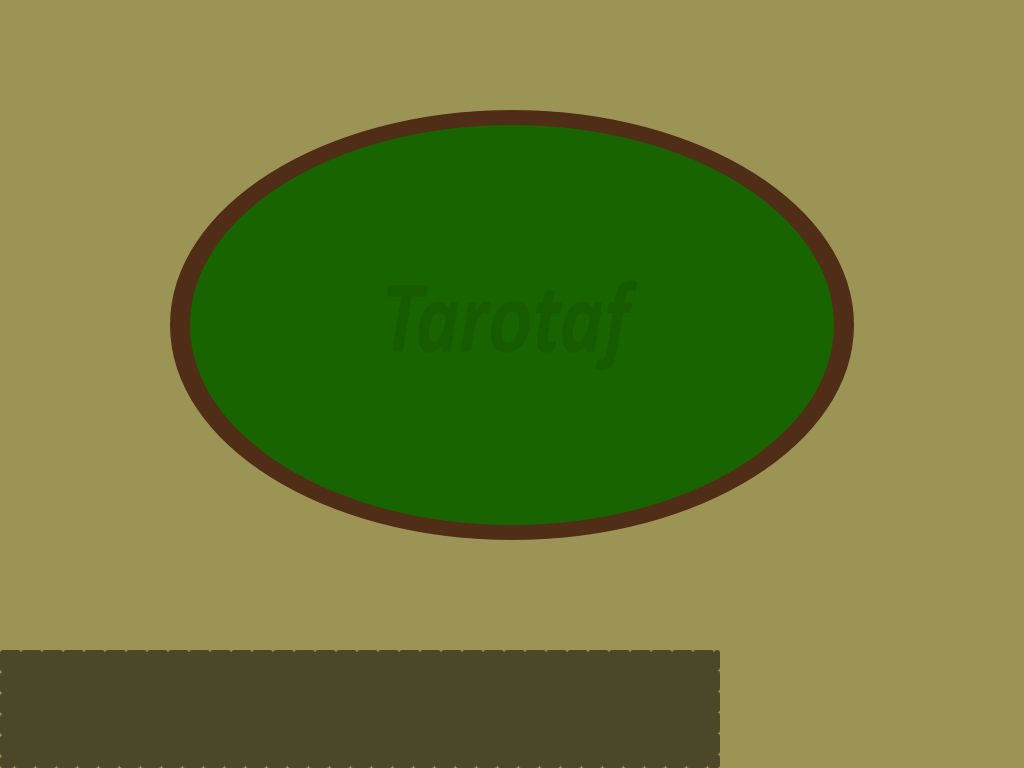
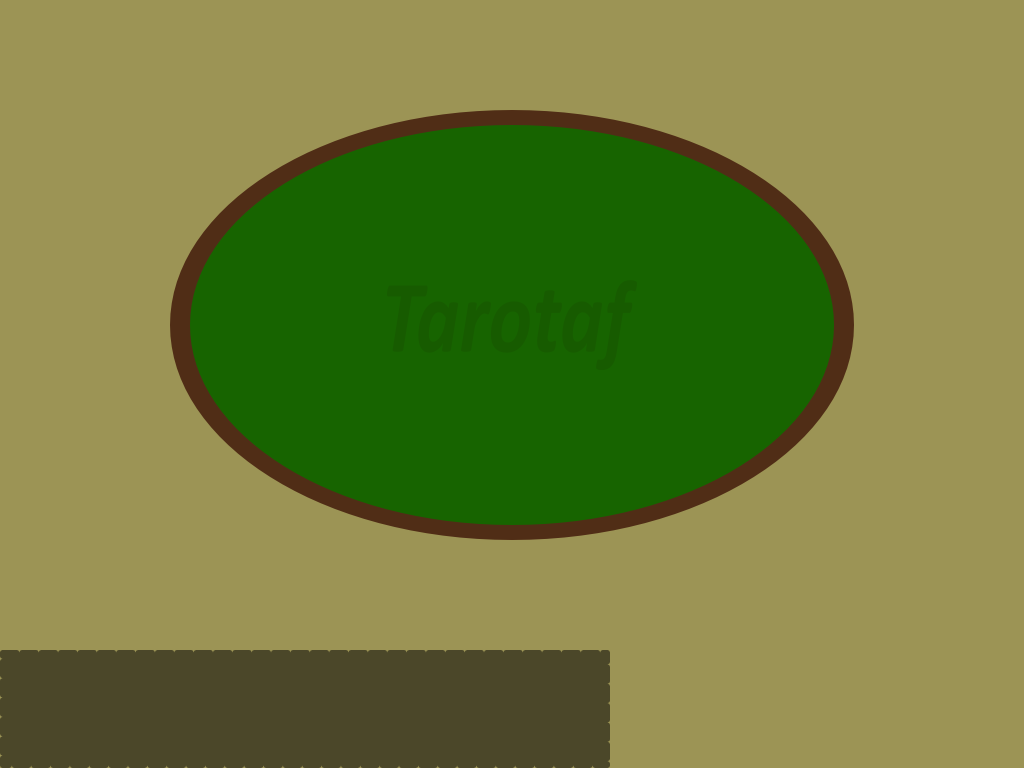
Switcher available

Changed region(s): [[0.5938, 0.8438, 0.7188, 1.0]]

diff --git a/trunk/client/switcher.py b/trunk/client/switcher.py
@@ -1,0 +1,98 @@
+#!/usr/bin/python
+# coding=UTF-8
+
+#Includes
+from PySFML import sf
+import math
+
+
+class Switcher:
+	
+	def __init__(self,window,event,thumbs):
+		self.window=window
+		self.event=event
+		self.thumbs2=thumbs		
+		self.init_x=self.window.GetWidth()*0.65
+		self.init_y=self.window.GetHeight()*0.86
+		self.width=300
+		self.height=100		
+		self.nb_rooms=0
+		self.thumbs=[]
+		self.visible=False
+		self.over_thumb=False
+		self.thumb_in=0
+		self.scale=0
+		self.generate()
+	
+	#generate : build the switcher
+	def generate(self):		
+		del self.thumbs[:] #Empty the list of switcher's thumbnails
+		self.background = sf.Shape.Rectangle(self.init_x,self.init_y,self.init_x+self.width,self.init_y+self.height,sf.Color(75,71,41,100),1,sf.Color(255,255,255)) #Print the background
+		#Add the thumb for each room
+		for i in range(self.nb_rooms):				
+			self.thumbs.append(sf.Sprite(self.thumbs2[i]))
+			#4 thumbs max per line
+			if self.nb_rooms<=4:
+				#Find the good scale factor
+				if self.thumbs[i].GetSize()[0]!=0:
+					self.scale=min((self.width-5*(self.nb_rooms+1))/(self.nb_rooms*self.thumbs[i].GetSize()[0]),(self.height-10)/self.thumbs[i].GetSize()[1])
+					self.thumbs[i].SetScale(self.scale,self.scale)
+				self.thumbs[i].SetY(self.init_y+(self.height-self.thumbs[i].GetSize()[1])/2)
+				self.thumbs[i].SetX(self.init_x+self.thumbs[i].GetSize()[0]*i+(self.width-self.nb_rooms*self.thumbs[i].GetSize()[0])/(self.nb_rooms+1)*(i+1))
+			else:
+				#Find the good scale factor
+				if self.thumbs[i].GetSize()[0]!=0:
+					self.scale=min((self.width-5*(4+1))/(4*self.thumbs[i].GetSize()[0]),(self.height-15)/(2*self.thumbs[i].GetSize()[1]))
+					self.thumbs[i].SetScale(self.scale,self.scale)
+				#Draw the thumbs on 2 lignes if more than 4 thumbs
+				if i>3:
+					self.thumbs[i].SetY(self.init_y+2*(self.height-2*self.thumbs[i].GetSize()[1])/3+self.thumbs[i].GetSize()[1])
+					self.thumbs[i].SetX(self.init_x+self.thumbs[i].GetSize()[0]*(i-4)+(self.width-4*self.thumbs[i].GetSize()[0])/5*((i-4)+1))	
+				else:
+					self.thumbs[i].SetY(self.init_y+(self.height-2*self.thumbs[i].GetSize()[1])/3)
+					self.thumbs[i].SetX(self.init_x+self.thumbs[i].GetSize()[0]*i+(self.width-4*self.thumbs[i].GetSize()[0])/5*(i+1))
+				
+	#display : draw the switcher on the window
+	def display(self):					
+		self.window.Draw(self.background)
+		for thumb in self.thumbs:
+			self.window.Draw(thumb)
+		self.visible=True
+		
+	def on_move(self):
+		if(self.event.MouseMove.X>self.init_x and self.event.MouseMove.X<self.init_x+self.width and self.event.MouseMove.Y>self.init_y and self.event.MouseMove.Y<self.init_y+self.height and self.visible):
+			i=0
+			j=-1
+			for thumb in self.thumbs:
+				if (self.event.MouseMove.X>thumb.GetPosition()[0] and self.event.MouseMove.X<thumb.GetPosition()[0]+thumb.GetSize()[0] and self.event.MouseMove.Y>thumb.GetPosition()[1] and self.event.MouseMove.Y<thumb.GetPosition()[1]+thumb.GetSize()[1]):
+					position = thumb.GetPosition()
+					width=thumb.GetSize()[0]
+					height=thumb.GetSize()[1]				
+					thumb.SetScale(self.scale*1.2,self.scale*1.2)
+					thumb.SetX(position[0]-(thumb.GetSize()[0]-width)/2)
+					thumb.SetY(position[1]-(thumb.GetSize()[1]-height)/2)
+					j=i
+					if j!=self.thumb_in:
+						position = self.thumbs[self.thumb_in].GetPosition()
+						width=self.thumbs[self.thumb_in].GetSize()[0]
+						height=self.thumbs[self.thumb_in].GetSize()[1]				
+						self.thumbs[self.thumb_in].SetScale(self.scale,self.scale)
+						self.thumbs[self.thumb_in].SetX(position[0]-(self.thumbs[self.thumb_in].GetSize()[0]-width)/2)
+						self.thumbs[self.thumb_in].SetY(position[1]-(self.thumbs[self.thumb_in].GetSize()[1]-height)/2)
+					self.over_thumb=True
+					self.thumb_in=i
+				i+=1	
+			if j==-1:
+				self.over_thumb=False			
+		else:
+			self.over_thumb=False
+		if not self.over_thumb and self.visible:
+			position = self.thumbs[self.thumb_in].GetPosition()
+			width=self.thumbs[self.thumb_in].GetSize()[0]
+			height=self.thumbs[self.thumb_in].GetSize()[1]				
+			self.thumbs[self.thumb_in].SetScale(self.scale,self.scale)
+			self.thumbs[self.thumb_in].SetX(position[0]-(self.thumbs[self.thumb_in].GetSize()[0]-width)/2)
+			self.thumbs[self.thumb_in].SetY(position[1]-(self.thumbs[self.thumb_in].GetSize()[1]-height)/2)
+			
+
+

diff --git a/trunk/client/table.py b/trunk/client/table.py
@@ -21,7 +21,6 @@ class Table:
 		self.height=self.window.GetHeight()*0.85
 		self.box_height=self.window.GetHeight()*0.13
 		self.box_width=self.box_height*1.62                  #Perfect box :)  
-		print self.box_width		
 		self.drop_width=300
 		self.drop_height=200
 		self.nb_players=0        #Nb of actual players on the table			
@@ -86,7 +85,7 @@ class Table:
 		self.names.append(sf.String(self.room.players[id].name))
 		self.names[id].SetPosition(x+1,y+1)
 		self.names[id].SetSize(20)
-		self.names[id].Rotate(9)		
+		#self.names[id].Rotate(3)		
 		
 		self.nb_players = self.nb_players + 1
 	
@@ -125,7 +124,7 @@ class Table:
 		
 		#self.cards[player].SetPosition(2*self.init_x+self.box_width,self.init_y+int(self.height/2)-int(self.cards[player].GetSize()[1]/2))
 		self.cards[player].SetPosition(x,y)		
-		self.cards[player].Rotate(random.randint(-12,12))
+		#self.cards[player].Rotate(random.randint(-12,12))
 		
 	#on_drop : print the drop zone and tell if it's in or out
 	def on_drop(self):
